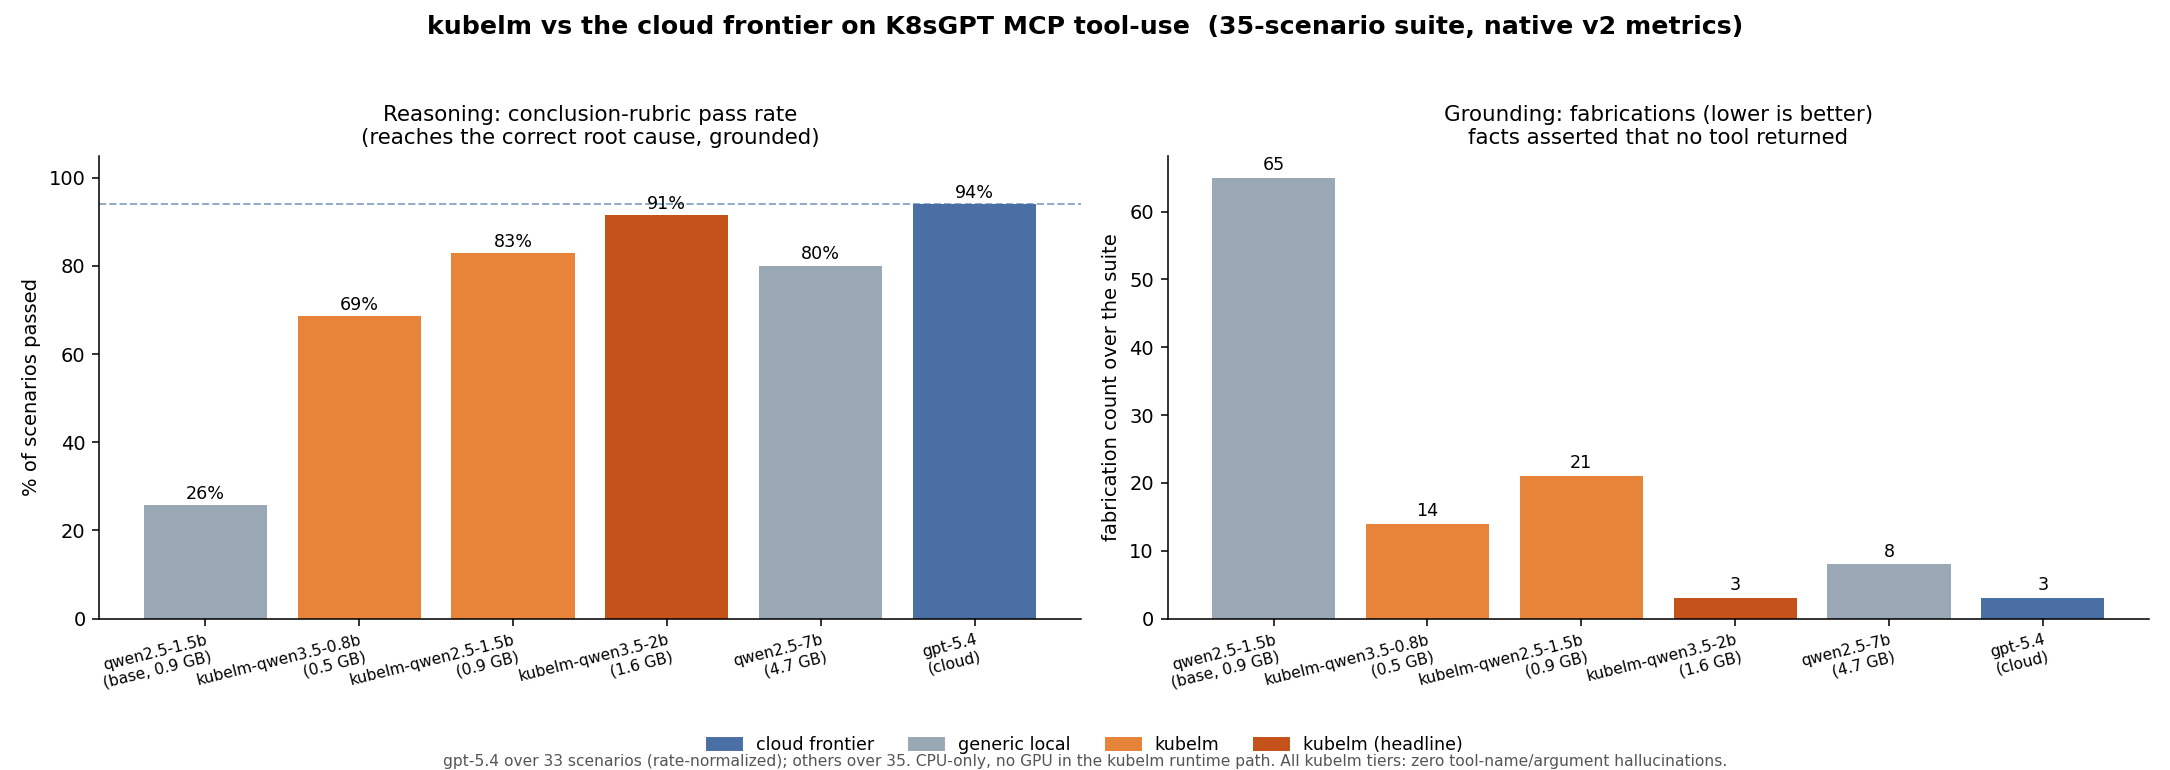
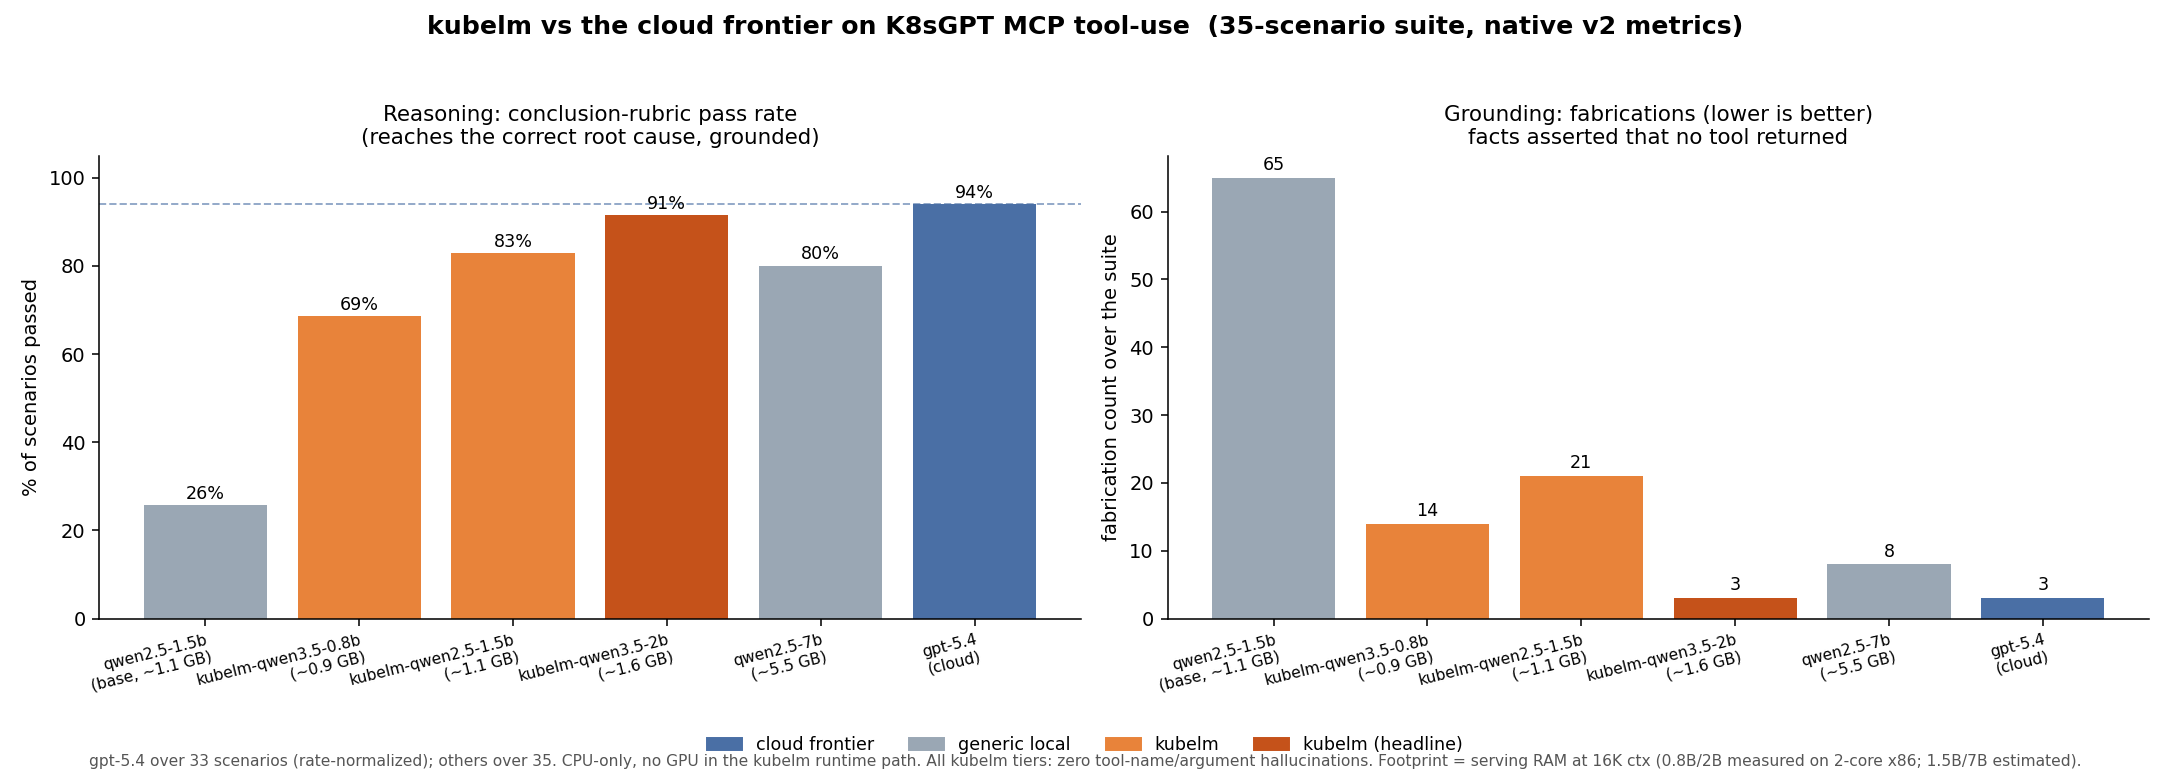
Relabel comparison-chart footprints to serving RAM
Use serving RAM at 16K context for every bar (apples-to-apples) instead
of the prior mix of GGUF size and RAM. 0.8B/2B are measured on 2-core
x86 (892MB / 1628MB); 1.5B/7B are estimated and flagged as such in the
footnote. Regenerated PNG.

diff --git a/eval/results/summaries/plot_kubelm_comparison.py b/eval/results/summaries/plot_kubelm_comparison.py
@@ -46,28 +46,28 @@ sd = agg(
 #   category: cloud | generic | kubelm | kubelm-hi
 ROWS = [
     (
-        "qwen2.5-1.5b\n(base, 0.9 GB)",
+        "qwen2.5-1.5b\n(base, ~1.1 GB)",
         "generic",
         sd["qwen2.5-1.5b"]["rubric"],
         35,
         sd["qwen2.5-1.5b"]["fabs"],
     ),
-    ("kubelm-qwen3.5-0.8b\n(0.5 GB)", "kubelm", 24, 35, 14),
+    ("kubelm-qwen3.5-0.8b\n(~0.9 GB)", "kubelm", 24, 35, 14),
     (
-        "kubelm-qwen2.5-1.5b\n(0.9 GB)",
+        "kubelm-qwen2.5-1.5b\n(~1.1 GB)",
         "kubelm",
         sd["kubelm-edge-v0"]["rubric"],
         35,
         sd["kubelm-edge-v0"]["fabs"],
     ),
     (
-        "kubelm-qwen3.5-2b\n(1.6 GB)",
+        "kubelm-qwen3.5-2b\n(~1.6 GB)",
         "kubelm-hi",
         sd["kubelm-edge-v0.3"]["rubric"],
         35,
         sd["kubelm-edge-v0.3"]["fabs"],
     ),
-    ("qwen2.5-7b\n(4.7 GB)", "generic", sd["qwen2.5-7b"]["rubric"], 35, sd["qwen2.5-7b"]["fabs"]),
+    ("qwen2.5-7b\n(~5.5 GB)", "generic", sd["qwen2.5-7b"]["rubric"], 35, sd["qwen2.5-7b"]["fabs"]),
     ("gpt-5.4\n(cloud)", "cloud", gpt["rubric"], gpt["n"], gpt["fabs"]),
 ]
 
@@ -138,7 +138,8 @@ fig.text(
     0.005,
     "gpt-5.4 over 33 scenarios (rate-normalized); others over 35. "
     "CPU-only, no GPU in the kubelm runtime path. "
-    "All kubelm tiers: zero tool-name/argument hallucinations.",
+    "All kubelm tiers: zero tool-name/argument hallucinations. "
+    "Footprint = serving RAM at 16K ctx (0.8B/2B measured on 2-core x86; 1.5B/7B estimated).",
     ha="center",
     fontsize=8,
     color="#555",